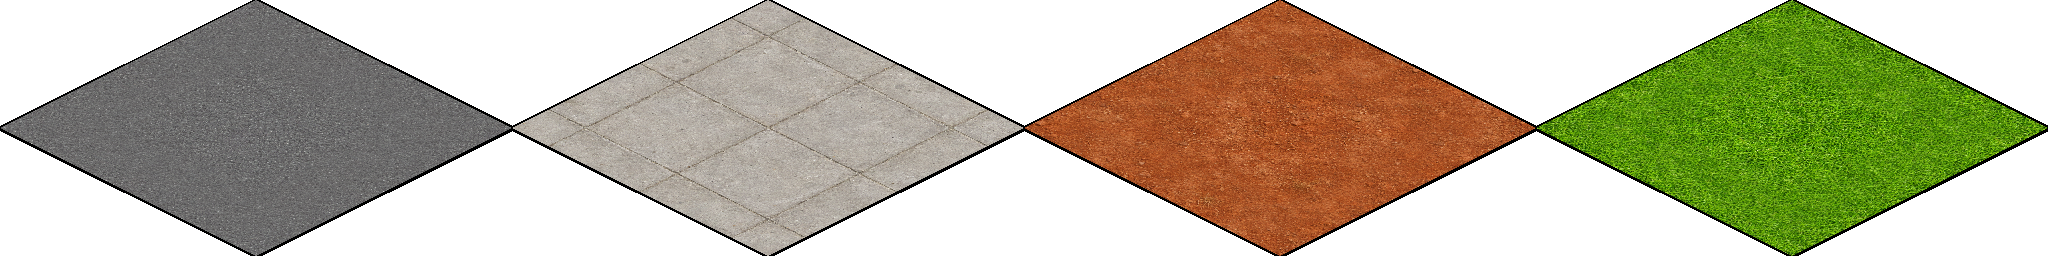
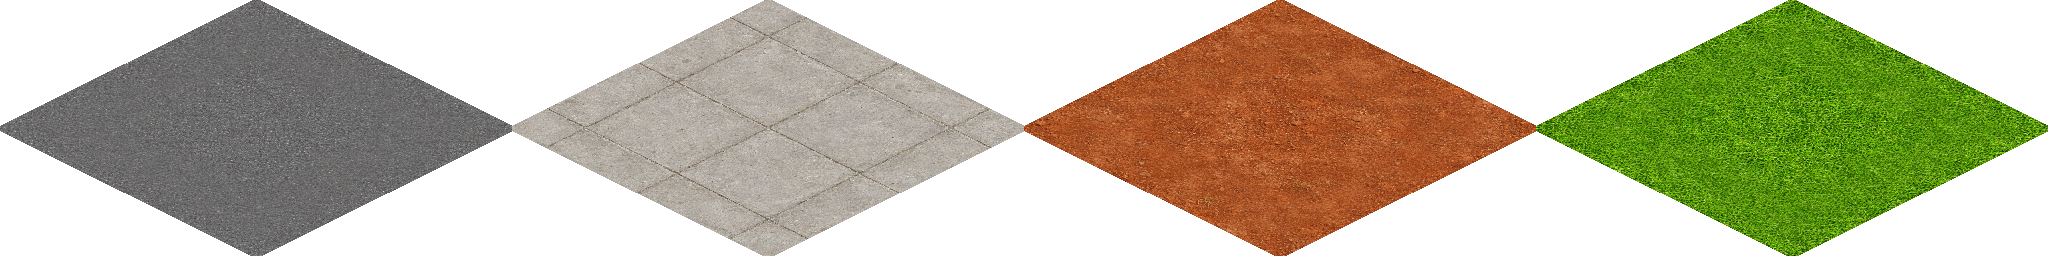
Interface estilo telemóvel e cidade a encher o ecrã
- HUD: retrato + dinheiro ao centro, necessidade mais baixa à esquerda, botões redondos
  à direita, barra de separadores em baixo (Telemóvel, Casa, Mapa, Gestos, Falar)
- casario e ruas decorativos à volta do bairro; câmara limitada à cidade; sem vazio
- mosaicos do chão sem linhas escuras (borda lê a textura vizinha)
- telemóvel na vertical: câmara mais perto; nomes maiores; vista Mapa

Claude-Session: https://claude.ai/code/session_01PxWmvmT3BzyG2wzqo5maAu

diff --git a/tools/art/ai/build_assets.py b/tools/art/ai/build_assets.py
@@ -235,7 +235,13 @@ def build_tiles(manifest):
         # inversa: u = (X - TW/2)·S/TW + Y·S/TH ; v = -(X - TW/2)·S/TW + Y·S/TH
         a, b, c = S / TW, S / TH, -S / 2
         d, e, f = -S / TW, S / TH, S / 2
-        tile = tex.transform((TW, TH), Image.AFFINE, (a, b, c, d, e, f), resample=Image.BICUBIC).convert("RGBA")
+        # textura repetida 3×3: a borda alargada do losango lê a textura vizinha em vez de
+        # preto (era isso que desenhava linhas escuras entre os mosaicos)
+        tex3 = Image.new("RGB", (S * 3, S * 3))
+        for gx in range(3):
+            for gy in range(3):
+                tex3.paste(tex, (gx * S, gy * S))
+        tile = tex3.transform((TW, TH), Image.AFFINE, (a, b, c + S, d, e, f + S), resample=Image.BICUBIC).convert("RGBA")
         mask = Image.new("L", (TW, TH), 0)
         from PIL import ImageDraw
         e = 2.5  # losango ligeiramente maior: os mosaicos sobrepõem-se e não ficam costuras
